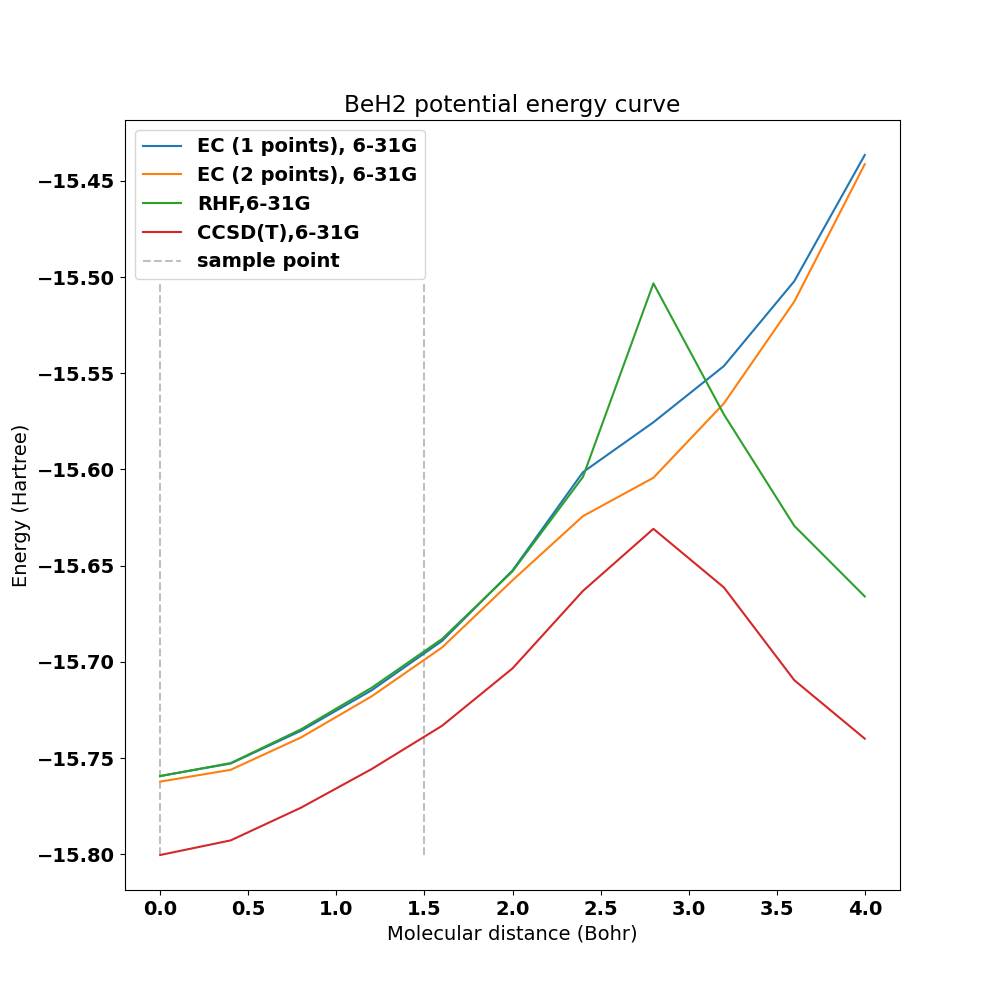
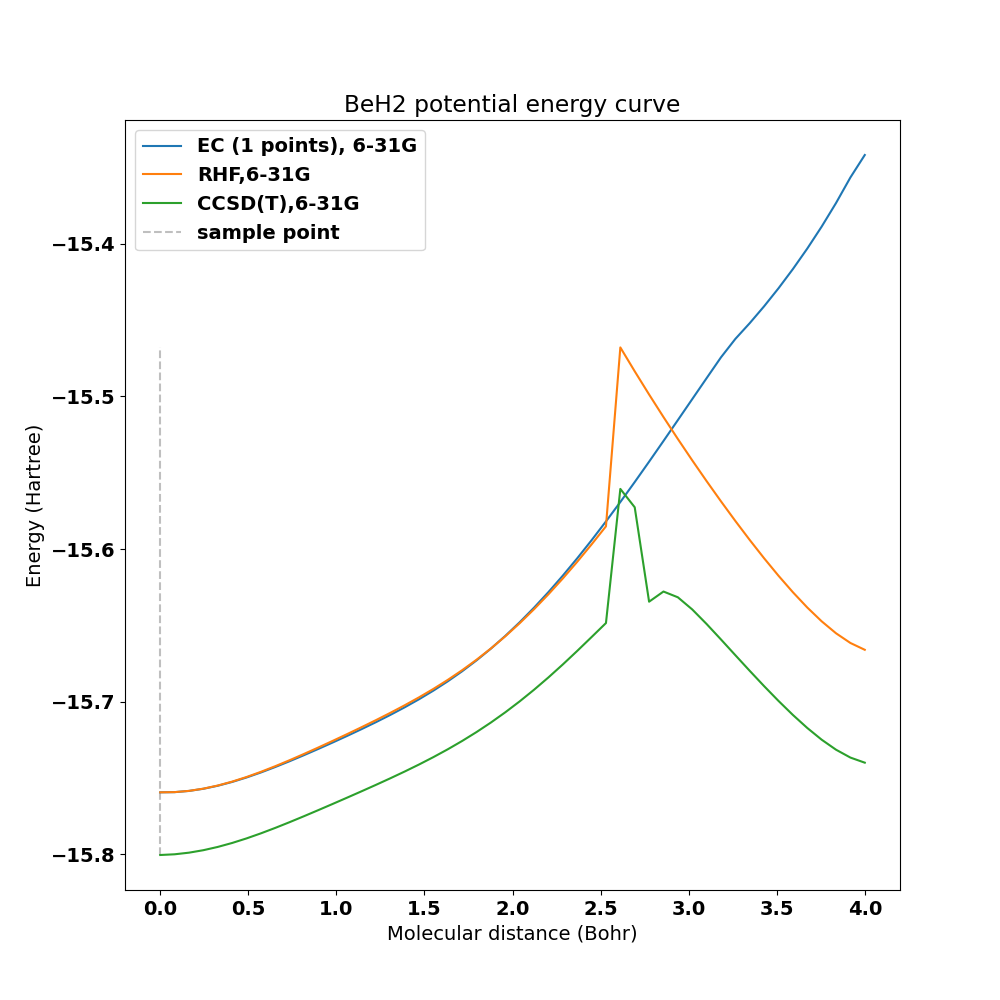
Code acceleration mucho, got singles to work in RHFgit add .

diff --git a/coding/eigenvectorcontinuation_molecule/ec_HF_basischange.py b/coding/eigenvectorcontinuation_molecule/ec_HF_basischange.py
@@ -6,6 +6,7 @@ from pyscf import gto, scf, fci,cc,ao2mo, mp, mcscf
 import pyscf
 import sys
 import itertools
+import scipy
 from eigenvectorcontinuation import *
 np.set_printoptions(linewidth=200,precision=2,suppress=True)
 import matplotlib
@@ -179,7 +180,7 @@ class eigvecsolver_RHF_singles(eigvecsolver_RHF):
     def getoverlap(self,determinant_matrix):
         overlap=np.linalg.det(determinant_matrix[0])*np.linalg.det(determinant_matrix[1]) #alpha part times beta part
         return overlap
-    def calculate_ST_matrices(self,mol_xc,new_HF_coefficients):
+    def calculate_ST_matrices_OLD(self,mol_xc,new_HF_coefficients):
         number_electronshalf=self.number_electronshalf
         neh=number_electronshalf
         overlap_basis=mol_xc.intor("int1e_ovlp")
@@ -189,11 +190,15 @@ class eigvecsolver_RHF_singles(eigvecsolver_RHF):
         number_matrix_elements=len(self.HF_coefficients)*(len(permutations))
         S=np.zeros((number_matrix_elements,number_matrix_elements))
         T=np.zeros((number_matrix_elements,number_matrix_elements))
+        e1_slbasis=[]
+        e2_slbasis=[]
         for i in range(len(self.HF_coefficients)):
             for j in range(len(permutations)):
                 for k in range(len(self.HF_coefficients)):
                     determinant_matrix_groundstate_alpha=self.getdeterminant_matrix(overlap_basis,new_HF_coefficients[i][:,:neh],new_HF_coefficients[k][:,:neh]) #The unmodified part
                     for l in range(len(permutations)):
+                        if(i*(len(permutations))+j>k*(len(permutations))+l):
+                            continue #Symmetry and stuff
                         if l==0 and j==0: #Both are non-excited states
                             determinant=self.getdeterminant_matrix(overlap_basis,new_HF_coefficients[i][:,:neh],new_HF_coefficients[k][:,:neh])
                             overlap=self.getoverlap([determinant,determinant])
@@ -209,7 +214,6 @@ class eigvecsolver_RHF_singles(eigvecsolver_RHF):
                             energy_total=energy_2e+energy_1e+nuc_repulsion_energy
                             T[i*(len(permutations))+j,k*(len(permutations))+l]=T[k*(len(permutations))+l,i*(len(permutations))+j]=energy_total
                             continue
-                        multiplicator=1
                         #1. Create excited state for the one excitation
                         #Groundstate_Left with groundstate_right (alpha,alpha)
                         GS_Left=new_HF_coefficients[i][:,:neh]
@@ -242,11 +246,10 @@ class eigvecsolver_RHF_singles(eigvecsolver_RHF):
                                 HF_coefficients_Right_1=[new_HF_coefficients[k][:,:neh],new_HF_coefficients[k][:,:neh]]
                                 HF_coefficients_Right_2=HF_coefficients_Right_1
                             overlap=(self.getoverlap(determinant_matrix_1)+self.getoverlap(determinant_matrix_2))*1/np.sqrt(2)
-                            S[i*(len(permutations))+j,k*(len(permutations))+l]=overlap
+                            S[k*(len(permutations))+l,i*(len(permutations))+j]=S[i*(len(permutations))+j,k*(len(permutations))+l]=overlap
                             nuc_repulsion_energy=mol_xc.energy_nuc()*overlap
                             energy_1e=self.onebody_energy(energy_basis_1e,HF_coefficients_Left_1,HF_coefficients_Right_1,determinant_matrix_1)
                             energy_2e=self.twobody_energy(energy_basis_2e,HF_coefficients_Left_1,HF_coefficients_Right_1,determinant_matrix_1)
-                            print(energy_1e-energy_2e)
                             energy_1e+=self.onebody_energy(energy_basis_1e,HF_coefficients_Left_2,HF_coefficients_Right_2,determinant_matrix_2)
 
                             energy_2e+=self.twobody_energy(energy_basis_2e,HF_coefficients_Left_2,HF_coefficients_Right_2,determinant_matrix_2)
@@ -265,69 +268,186 @@ class eigvecsolver_RHF_singles(eigvecsolver_RHF):
                             HF_coefficients_Right_1=[right_GS,right_ES]
                             HF_coefficients_Right_2=[right_ES,right_GS]
                             overlap=self.getoverlap(determinant_matrix_1)+self.getoverlap(determinant_matrix_2)
-                            S[i*(len(permutations))+j,k*(len(permutations))+l]=overlap
+                            S[k*(len(permutations))+l,i*(len(permutations))+j]=S[i*(len(permutations))+j,k*(len(permutations))+l]=overlap
                             nuc_repulsion_energy=mol_xc.energy_nuc()*overlap
                             energy_1e=self.onebody_energy(energy_basis_1e,HF_coefficients_Left_1,HF_coefficients_Right_1,determinant_matrix_1)
                             energy_1e+=self.onebody_energy(energy_basis_1e,HF_coefficients_Left_2,HF_coefficients_Right_2,determinant_matrix_2)
                             energy_2e=self.twobody_energy(energy_basis_2e,HF_coefficients_Left_1,HF_coefficients_Right_1,determinant_matrix_1)
                             energy_2e+=self.twobody_energy(energy_basis_2e,HF_coefficients_Left_2,HF_coefficients_Right_2,determinant_matrix_2)
                             energy_total=energy_2e+energy_1e+nuc_repulsion_energy
+                        T[i*(len(permutations))+j,k*(len(permutations))+l]=T[k*(len(permutations))+l,i*(len(permutations))+j]=energy_total#=T[k*(len(permutations))+l,i*(len(permutations))+j]=energy_total
 
-                        #Calculate overlap of CAS...
-                        T[i*(len(permutations))+j,k*(len(permutations))+l]=energy_total#=T[k*(len(permutations))+l,i*(len(permutations))+j]=energy_total
-                        if(i==0 and j==0 and k==0 and l==1):
-                            pass
-                            #print(T[i*(len(permutations))+j,k*(len(permutations))+l])
-                            #sys.exit(1)
-
-        print(S)
-        print(T)
+            print("i=%d,k=%d"%(i,k))
 
         #S is diagonal, hence:
+        #assert np.all(np.abs(S-S.T)<1e-10)
+        #assert np.all(np.abs(T-T.T)<1e-10)
         return S,T
-    def onebody_energy(self,energy_basis_1e,HF_coefficients_left,HF_coefficients_right,determinant_matrix):
+    def calculate_ST_matrices(self,mol_xc,new_HF_coefficients):
         number_electronshalf=self.number_electronshalf
-        Hamiltonian_SLbasis_alpha=np.einsum("ki,lj,kl->ij",HF_coefficients_left[0],HF_coefficients_right[0],energy_basis_1e) #Hamilton operator in Slater determinant basis
-        Hamiltonian_SLbasis_beta=np.einsum("ki,lj,kl->ij",HF_coefficients_left[1],HF_coefficients_right[1],energy_basis_1e) #Hamilton operator in Slater determinant basis
+        neh=number_electronshalf
+        overlap_basis=mol_xc.intor("int1e_ovlp")
+        energy_basis_1e=mol_xc.intor("int1e_kin")+mol_xc.intor("int1e_nuc")
+        energy_basis_2e=mol_xc.intor('int2e',aosym="s1")
+        permutations=self.create_singles(new_HF_coefficients)
+        number_matrix_elements=len(self.HF_coefficients)*(len(permutations))
+        S=np.zeros((number_matrix_elements,number_matrix_elements))
+        T=np.zeros((number_matrix_elements,number_matrix_elements))
+        e1_slbasis=[]
+        e2_slbasis=[]
+
+        """Find the 1 and 2 electron integrals in the extended basis"""
+        for i in range(len(self.HF_coefficients)):
+            temp_1=[]
+            temp_2=[]
+            for k in range(len(self.HF_coefficients)):
+                temp_1.append(np.einsum("ki,lj,kl->ij",new_HF_coefficients[i],new_HF_coefficients[k],energy_basis_1e))
+                basis=ao2mo.get_mo_eri(energy_basis_2e,(new_HF_coefficients[i],new_HF_coefficients[k],new_HF_coefficients[i],new_HF_coefficients[k]),aosym="s1")
+                temp_2.append(basis)
+            e1_slbasis.append(temp_1)
+            e2_slbasis.append(temp_2)
+        len_permutations=len(permutations)
+        for c1 in range(number_matrix_elements):
+            i=c1//len_permutations
+            j=c1%len_permutations
+            for c2 in range(c1,number_matrix_elements):
+                determinant_matrix_groundstate_alpha=self.getdeterminant_matrix(overlap_basis,new_HF_coefficients[i][:,:neh],new_HF_coefficients[k][:,:neh]) #The unmodified part
+                k=c2//len_permutations
+                l=c2%len_permutations
+                energy_1e=0
+                energy_2e=0
+                if l==0 and j==0: #Both are non-excited states
+                    determinant=self.getdeterminant_matrix(overlap_basis,new_HF_coefficients[i][:,:neh],new_HF_coefficients[k][:,:neh])
+                    overlap=self.getoverlap([determinant,determinant])
+                    [pl,pr],[nana,nene]=self.getpermutations(permutations,(0,j),(0,l),(0,0),(0,0)) #No permutations are performed, this is to work with the functions
+                    energy_1e=self.onebody_energy([determinant,determinant],e1_slbasis[i][k],pl,pr)
+                    energy_2e=self.twobody_energy([determinant,determinant],e2_slbasis[i][k],pl,pr)
+
+                    S[c1,c2]=S[c2,c1]=overlap
+                    #Calculate energy of CAS.
+                    nuc_repulsion_energy=mol_xc.energy_nuc()*overlap
+                    energy_total=energy_2e+energy_1e+nuc_repulsion_energy
+                    T[c1,c2]=T[c2,c1]=energy_total
+                    continue
+                GS_Left=new_HF_coefficients[i][:,:neh]
+                GS_Right=new_HF_coefficients[k][:,:neh]
+                ES_Left=swap_cols(new_HF_coefficients[i],permutations[j][0],permutations[j][1])[:,:neh]
+                ES_Right=swap_cols(new_HF_coefficients[k],permutations[l][0],permutations[l][1])[:,:neh]
+                determinant_matrix_GS_GS=self.getdeterminant_matrix(overlap_basis,GS_Left,GS_Right) #The unmodified part
+                determinant_matrix_EX_EX=self.getdeterminant_matrix(overlap_basis,ES_Left,ES_Right)
+                determinant_matrix_GS_EX=self.getdeterminant_matrix(overlap_basis,GS_Left,ES_Right) #The unmodified part
+                determinant_matrix_EX_GS=self.getdeterminant_matrix(overlap_basis,ES_Left,GS_Right)
+                if j==0: #Left state is ground state
+                    multiplier=1/np.sqrt(2)
+                    determinant_matrix_1=[determinant_matrix_GS_GS,determinant_matrix_GS_EX]
+                    determinant_matrix_2=[determinant_matrix_GS_EX,determinant_matrix_GS_GS]
+                    permutations_loc=self.getpermutations(permutations,(0,j),(0,l),(j,0),(l,0))
+                elif l==0: #Right state is ground state
+                    multiplier=1/np.sqrt(2)
+                    determinant_matrix_1=[determinant_matrix_GS_GS,determinant_matrix_EX_GS]
+                    determinant_matrix_2=[determinant_matrix_EX_GS,determinant_matrix_GS_GS]
+                    permutations_loc=self.getpermutations(permutations,(0,j),(0,l),(j,0),(l,0))
+                else:
+                    multiplier=1
+                    determinant_matrix_1=[determinant_matrix_GS_GS,determinant_matrix_EX_EX]
+                    determinant_matrix_2=[determinant_matrix_GS_EX,determinant_matrix_EX_GS]
+                    permutations_loc=self.getpermutations(permutations,(0,j),(0,l),(0,j),(l,0))
+
+                determinant_matrix=[determinant_matrix_1,determinant_matrix_2]
+                overlap=(self.getoverlap(determinant_matrix_1)+self.getoverlap(determinant_matrix_2))*multiplier
+                S[c2,c1]=S[c1,c2]=overlap
+                nuc_repulsion_energy=mol_xc.energy_nuc()*overlap/multiplier
+
+                for ind,(pl, pr) in enumerate(permutations_loc):
+                    energy_1e+=self.onebody_energy(determinant_matrix[ind],e1_slbasis[i][k],pl,pr)
+                    energy_2e+=self.twobody_energy(determinant_matrix[ind],e2_slbasis[i][k],pl,pr)
+                energy_total=(energy_2e+energy_1e+nuc_repulsion_energy)*multiplier
+                T[c1,c2]=T[c2,c1]=energy_total#=T[k*(len(permutations))+l,c1]=energy_total
+        return S,T
+    def getpermutations(self,permutations,l1,r1,l2,r2):
+        permutations_left_1=[permutations[l1[0]],permutations[l1[1]]]
+        permutations_right_1=[permutations[r1[0]],permutations[r1[1]]]
+        permutations_left_2=[permutations[l2[0]],permutations[l2[1]]]
+        permutations_right_2=[permutations[r2[0]],permutations[r2[1]]]
+        return [[permutations_left_1,permutations_right_1],[permutations_left_2,permutations_right_2]]
+    def onebody_energy(self,determinant_matrix,SLbasis,permutations_left,permutations_right):
+        """Unlike the previous method, the left and right coefficients are now the WHOLE set (occ+unocc). The SLbasis is also the whole (for the corresponding system). The permutations contain all information
+        about the construction of the coefficients.
+        """
+        neh=self.number_electronshalf
+        electrons_basis=np.arange(neh)
+        electrons_alpha_left=np.where(electrons_basis==permutations_left[0][0],permutations_left[0][1],electrons_basis)
+        electrons_beta_left=np.where(electrons_basis==permutations_left[1][0],permutations_left[1][1],electrons_basis)
+        electrons_alpha_right=np.where(electrons_basis==permutations_right[0][0],permutations_right[0][1],electrons_basis)
+        electrons_beta_right=np.where(electrons_basis==permutations_right[1][0],permutations_right[1][1],electrons_basis)
+        Hamiltonian_SLbasis_alpha=SLbasis[np.ix_(electrons_alpha_left,electrons_alpha_right)]
+        Hamiltonian_SLbasis_beta=SLbasis[np.ix_(electrons_beta_left,electrons_beta_right)]
         energy_1e=0
         determinant_matrix_alpha=determinant_matrix[0]
         determinant_matrix_beta=determinant_matrix[1]
-        for k in range(number_electronshalf):
+        for k in range(neh):
             determinant_matrix_energy_alpha=determinant_matrix_alpha.copy() #Re-initiate Energy matrix
-            for l in range(number_electronshalf):
+            for l in range(neh):
                     determinant_matrix_energy_alpha[l,k]=Hamiltonian_SLbasis_alpha[l,k]
             energy_contribution=np.linalg.det(determinant_matrix_energy_alpha)*np.linalg.det(determinant_matrix_beta)
             energy_1e+=energy_contribution
-        for k in range(number_electronshalf):
+        for k in range(neh):
             determinant_matrix_energy_beta=determinant_matrix_beta.copy() #Re-initiate Energy matrix
-            for l in range(number_electronshalf):
+            for l in range(neh):
                     determinant_matrix_energy_beta[l,k]=Hamiltonian_SLbasis_beta[l,k]
             energy_contribution=np.linalg.det(determinant_matrix_energy_beta)*np.linalg.det(determinant_matrix_alpha)
             energy_1e+=energy_contribution
         return energy_1e
-    def twobody_energy_old(self,energy_basis_2e,HF_coefficients_left,HF_coefficients_right,determinant_matrix):
-        eri_MO_aabb=ao2mo.get_mo_eri(energy_basis_2e,(HF_coefficients_left[0],HF_coefficients_right[0],HF_coefficients_left[1],HF_coefficients_right[1]),aosym="s1")
-        eri_MO_aaaa=ao2mo.get_mo_eri(energy_basis_2e,(HF_coefficients_left[0],HF_coefficients_right[0],HF_coefficients_left[0],HF_coefficients_right[0]),aosym="s1")
-        eri_MO_bbbb=ao2mo.get_mo_eri(energy_basis_2e,(HF_coefficients_left[1],HF_coefficients_right[1],HF_coefficients_left[1],HF_coefficients_right[1]),aosym="s1")
-
+    def twobody_energy(self,determinant_matrix,eribasis,permutations_left,permutations_right):
+        La,da,Ra,Pa=LDU_decomp(determinant_matrix[0]) #Alpha LdR decomposition
+        Lb,db,Rb,Pb=LDU_decomp(determinant_matrix[1]) #Beta LdR decomposition
+        neh=self.number_electronshalf
+        num_singularities=len(da[np.abs(da)<1e-10])+len(db[np.abs(db)<1e-10])
+        if num_singularities>=3:
+            return 0
+        if num_singularities==2:
+            L=scipy.linalg.block_diag(La,Lb)
+            R=scipy.linalg.block_diag(Ra,Rb)
+            L2=second_order_compound(L)
+            R2=second_order_compound(R)
+            dval=np.prod(da[np.abs(da)<1e-10])*np.prod(db[np.abs(db)<1e-10])
+            adjumat=L2[:,-1]@R2[-1,:]*dval
+        if num_singularities==1:
+            pass
+        else:
+        neh=self.number_electronshalf
+        electrons_basis=np.arange(neh)
+        electrons_alpha_left=np.where(electrons_basis==permutations_left[0][0],permutations_left[0][1],electrons_basis)
+        electrons_beta_left=np.where(electrons_basis==permutations_left[1][0],permutations_left[1][1],electrons_basis)
+        electrons_alpha_right=np.where(electrons_basis==permutations_right[0][0],permutations_right[0][1],electrons_basis)
+        electrons_beta_right=np.where(electrons_basis==permutations_right[1][0],permutations_right[1][1],electrons_basis)
+        eri_MO_aaaa=eribasis[np.ix_(electrons_alpha_left,electrons_alpha_right,electrons_alpha_left,electrons_alpha_right)]
+        eri_MO_aabb=eribasis[np.ix_(electrons_alpha_left,electrons_alpha_right,electrons_beta_left,electrons_beta_right)]
+        eri_MO_bbbb=eribasis[np.ix_(electrons_beta_left,electrons_beta_right,electrons_beta_left,electrons_beta_right)]
         energy_2e=0
         n=int(self.number_electronshalf*2)
         nh=self.number_electronshalf
-        G1s,G2s,G3s=get_antisymm_element_separated(eri_MO_aaaa,eri_MO_bbbb,eri_MO_aabb,int(n))
+        G1s,G2s,G3s=get_antisymm_element_separated(eri_MO_aaaa,eri_MO_bbbb,eri_MO_aabb,n)
         M1s,M2s,M3s=second_order_adj_matrix_blockdiag_separated(determinant_matrix[0],determinant_matrix[1])
         energy_2e=np.trace(dot_nb(M1s,G1s))+np.trace(dot_nb(M2s,G2s))+np.trace(dot_nb(M3s,G3s))
         return energy_2e
-    def twobody_energy(self,energy_basis_2e,HF_coefficients_left,HF_coefficients_right,determinant_matrix):
-        eri_MO_aabb=ao2mo.get_mo_eri(energy_basis_2e,(HF_coefficients_left[0],HF_coefficients_right[0],HF_coefficients_left[1],HF_coefficients_right[1]),aosym="s1")
-        eri_MO_bbaa=ao2mo.get_mo_eri(energy_basis_2e,(HF_coefficients_left[1],HF_coefficients_right[1],HF_coefficients_left[0],HF_coefficients_right[0]),aosym="s1")
-        eri_MO_aaaa=ao2mo.get_mo_eri(energy_basis_2e,(HF_coefficients_left[0],HF_coefficients_right[0],HF_coefficients_left[0],HF_coefficients_right[0]),aosym="s1")
-        eri_MO_bbbb=ao2mo.get_mo_eri(energy_basis_2e,(HF_coefficients_left[1],HF_coefficients_right[1],HF_coefficients_left[1],HF_coefficients_right[1]),aosym="s1")
+    def twobody_energy_alt(self,determinant_matrix,eribasis,permutations_left,permutations_right):
+        neh=self.number_electronshalf
+        electrons_basis=np.arange(neh)
+        electrons_alpha_left=np.where(electrons_basis==permutations_left[0][0],permutations_left[0][1],electrons_basis)
+        electrons_beta_left=np.where(electrons_basis==permutations_left[1][0],permutations_left[1][1],electrons_basis)
+        electrons_alpha_right=np.where(electrons_basis==permutations_right[0][0],permutations_right[0][1],electrons_basis)
+        electrons_beta_right=np.where(electrons_basis==permutations_right[1][0],permutations_right[1][1],electrons_basis)
+        eri_MO_aaaa=eribasis[np.ix_(electrons_alpha_left,electrons_alpha_right,electrons_alpha_left,electrons_alpha_right)]
+        eri_MO_aabb=eribasis[np.ix_(electrons_alpha_left,electrons_alpha_right,electrons_beta_left,electrons_beta_right)]
+        eri_MO_bbbb=eribasis[np.ix_(electrons_beta_left,electrons_beta_right,electrons_beta_left,electrons_beta_right)]
+        eri_MO_bbaa=eribasis[np.ix_(electrons_beta_left,electrons_beta_right,electrons_alpha_left,electrons_alpha_right)]
         energy_2e=0
         determinant_matrix_alpha=determinant_matrix[0]
         determinant_matrix_beta=determinant_matrix[1]
         number_electronshalf=self.number_electronshalf
-        number_electrons_alpha=len(HF_coefficients_left[0][0,:])
-        number_electrons_beta=len(HF_coefficients_left[1][0,:])
+        number_electrons_alpha=len(electrons_alpha_left)
+        number_electrons_beta=len(electrons_beta_left)
         large_S=np.zeros((number_electronshalf*2,number_electronshalf*2))
         large_S[:number_electrons_alpha,:number_electrons_alpha]=determinant_matrix_alpha.copy()
         large_S[number_electrons_alpha:,number_electrons_alpha:]=determinant_matrix_beta.copy()
@@ -355,6 +475,7 @@ class eigvecsolver_RHF_singles(eigvecsolver_RHF):
                         if(abs(eri_of_interest)>=1e-10):
                             energy_2e+=np.linalg.det(largeS_2e)*eri_of_interest
         return energy_2e
+
 class eigensolver_RHF_knowncoefficients(eigvecsolver_RHF):
     def __init__(self,sample_coefficients,basis_type,molecule=lambda x: "H 0 0 0 ; F 0 0 %d"%x,spin=0,unit='AU',charge=0,symmetry=False):
         """Initiate the solver.
@@ -365,7 +486,6 @@ class eigensolver_RHF_knowncoefficients(eigvecsolver_RHF):
         basis_type - atomic basis
         molecule - A function f(x), returning the molecule as function of x
         """
-        self.HF_coefficients=[] #The Hartree Fock coefficients solved at the sample points
         self.molecule=molecule
         self.basis_type=basis_type
         self.spin=spin

diff --git a/coding/eigenvectorcontinuation_molecule/eigenvectorcontinuation.py b/coding/eigenvectorcontinuation_molecule/eigenvectorcontinuation.py
@@ -3,10 +3,75 @@ from numpy import linalg
 from numba import jit
 import scipy
 import numba as nb
+from scipy.linalg import lu, qr
 def swap_cols(arr, frm, to): #Swap columns of a matrix
     arrny=arr.copy()
     arrny[:,[frm, to]] = arrny[:,[to, frm]]
     return arrny
+def LDU_decomp(X,threshold=1e-10):
+    """Implement the LDU decomposition of a square matrix X"""
+    L,R,P=qr(X,pivoting=True)
+    Pinverse=np.argsort(P)
+    d=np.diag(R) #Diagonal matrix
+    d[abs(d)<threshold]=0 #ignore that very part of the matrix
+    Rn=np.divide(R.T,d).T
+
+    Rn[np.isnan(Rn)]=0
+    Rn[np.isinf(Rn)]=0
+
+    #d=np.diag(d)
+    np.fill_diagonal(Rn,1)
+    X_permute=X[np.ix_(np.arange(X.shape[0]),P)]
+
+    print("old X")
+    print(X)
+    print("new X")
+    print((L@np.diag(d)@Rn)[np.ix_(np.arange(X.shape[0]),Pinverse)])
+    print("old d")
+    print(np.diag(d))
+    print("new d")
+    print(L.T@X_permute@np.linalg.inv(Rn))
+    print(Rn)
+    print(np.linalg.inv(Rn))
+    #print(scipy.linalg.pinv(Rn))
+    return L, d, Rn, P
+
+def biorthogonalize(X): #biorthogonalization of a generic matric X
+    permuted=False
+    R=np.eye(X.shape[1])
+    L=np.eye(X.shape[0])
+    Xopy=X.copy()
+    permutation_matrix=np.eye(X.shape[1])
+    for i in range(X.shape[0]): # For each row
+        R_i=np.eye(X.shape[1])
+        """
+        if abs(X[i,i])<=1e-10:
+            X[i,i]=0
+            for k in range(i,X.shape[0]):
+                if permuted:
+                    break
+                for l in range(i,X.shape[1]):
+                    if abs(X[k,l])>1e-10:
+                        rowvec=np.arange(X.shape[0]); rowvec[i]=k; rowvec[k]=i
+                        colvec=np.arange(X.shape[1]); colvec[i]=l; colvec[k]=l
+                        X=X[np.ix_(rowvec,colvec)]
+                        permutation_matrix=permutation_matrix[np.ix_(rowvec,colvec)]
+                        R=R[np.ix_(np.arange(X.shape[0]),colvec)]
+                        permuted=True
+                        break
+            if permuted is False: #We're done
+                break
+            permuted=False
+        """
+        for j in range(i+1,X.shape[1]): #For each column
+            R_i[i,j]=-Xopy[i,j]/Xopy[i,i]
+        Xopy=Xopy@R_i
+        R=(R@R_i)
+    print(Xopy)
+    print(R)
+    print(np.linalg.det(Xopy))
+    print(np.linalg.det(R))
+    print(Xopy@permutation_matrix@R)
 def generalized_eigenvector(T,S,symmetric=True):
     """Solves the generalized eigenvector problem.
 

diff --git a/coding/eigenvectorcontinuation_molecule/HF_firstexcited.py b/coding/eigenvectorcontinuation_molecule/HF_firstexcited.py
@@ -7,14 +7,22 @@ from eigenvectorcontinuation import generalized_eigenvector
 np.set_printoptions(linewidth=300,precision=2,suppress=True)
 
 from ec_HF_basischange import *
-ax,fig=plt.subplots(figsize=(10,10))
+
 basis="6-31G"
-sample_x=np.linspace(1.5,2.0,1)
-xc_array=np.linspace(1.5,5.0,20)
+sample_x=np.linspace(1.5,2.0,3)
+xc_array=np.linspace(1.5,3.0,10)
 molecule=lambda x: """H 0 0 0; F 0 0 %f"""%x
 molecule_name=r"Hydrogen Fluoride"
+'''
+basis="6-31G"
+molecule_name="BeH2"
+sample_x=np.linspace(0,4,1)
+xc_array=np.linspace(0,4,50)
+molecule=lambda x: """Be 0 0 0; H %f %f 0; H %f %f 0"""%(x,2.54-0.46*x,x,-(2.54-0.46*x))
+ax,fig=plt.subplots(figsize=(10,10))
+'''
 energiesCC=CC_energy_curve(xc_array,basis,molecule=molecule)
-for i in range(1,2):
+for i in range(1,3):
     print("Eigvec (%d)"%(i))
     HF=eigvecsolver_RHF_singles(sample_x[:i],basis,molecule=molecule)
     energiesEC,eigenvectors=HF.calculate_energies(xc_array)

diff --git a/coding/eigenvectorcontinuation_molecule/test_ldu.py b/coding/eigenvectorcontinuation_molecule/test_ldu.py
@@ -1,0 +1,9 @@
+import numpy as np
+import matplotlib.pyplot as plt
+from eigenvectorcontinuation import *
+np.set_printoptions(linewidth=200,precision=2,suppress=True)
+X=np.arange(1.0,10.0).reshape(3,3)
+X=np.ones((10,10))
+#X=np.random.rand(5,5)
+
+LDU_decomp(X)
